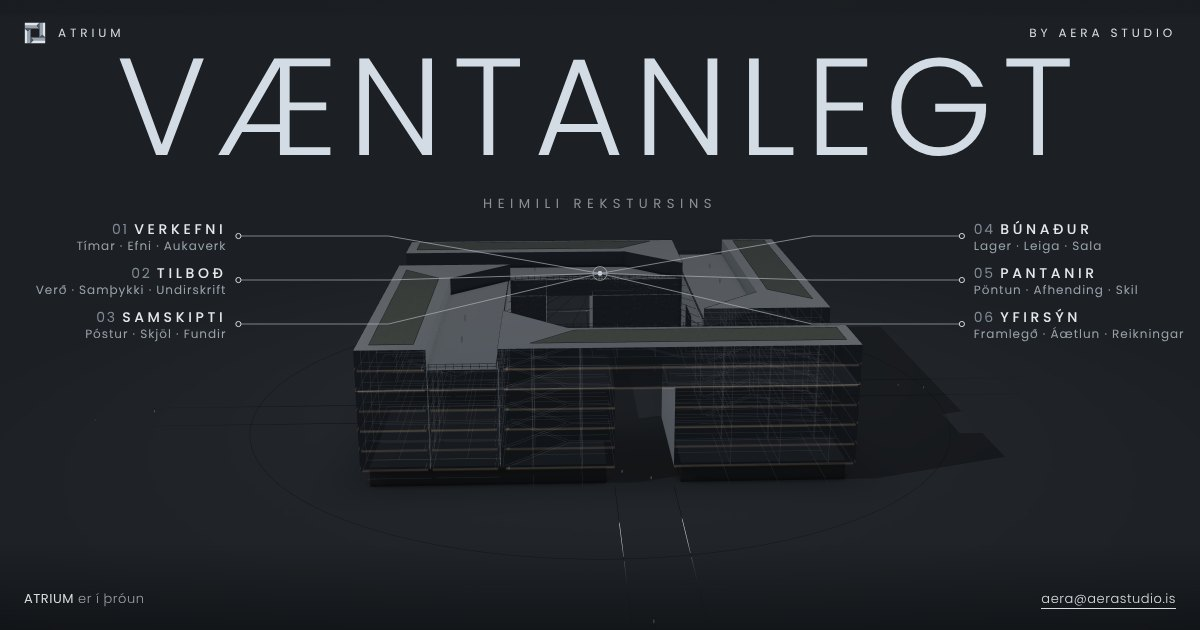
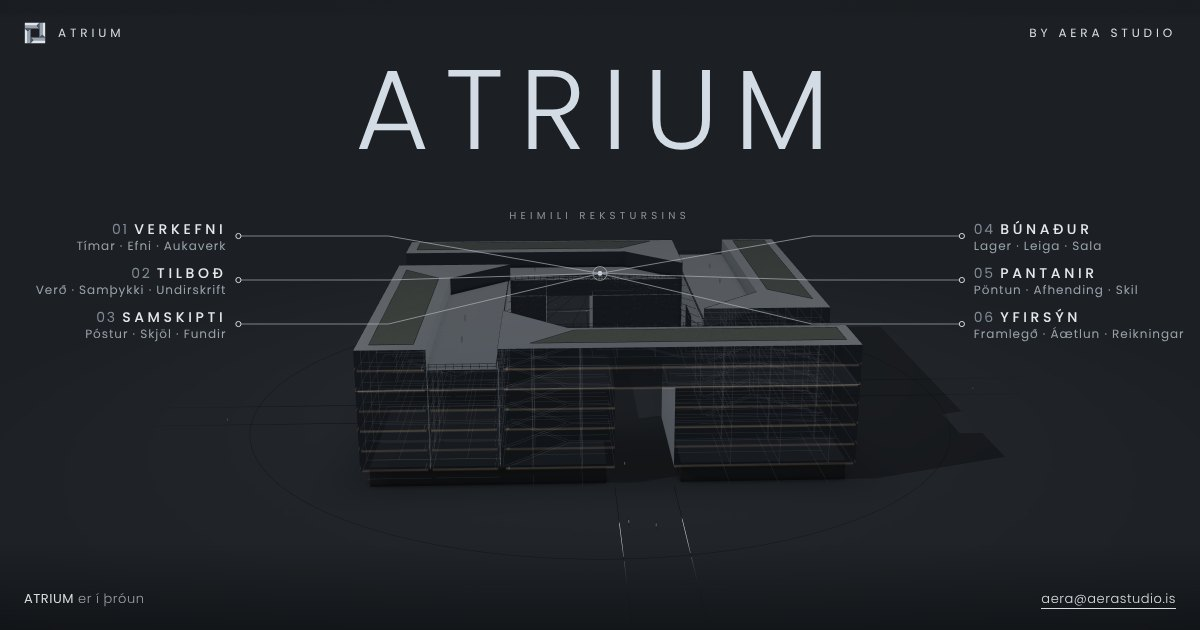
Væntanlegt: ATRIUM í stað VÆNTANLEGT; fyrirsögn og „Heimili rekstursins“ teiknast inn í línum samtímis merkinu og fyllast svo
Claude-Session: https://claude.ai/code/session_01NhUccGStRqMU7uEcn4Gtag

diff --git a/index.html b/index.html
@@ -6,7 +6,7 @@
 <script>/* App sem var sett upp áður en AERA flutti í aera/ (2.6.0) opnar rótina – senda það beint inn í AERA-appið */
 (function(){try{if((window.matchMedia&&(matchMedia("(display-mode: standalone)").matches||matchMedia("(display-mode: window-controls-overlay)").matches||matchMedia("(display-mode: minimal-ui)").matches))||navigator.standalone===true)location.replace("aera/"+location.search+location.hash);}catch(e){}})();
 if (/[?&]demo\b/.test(location.search)) location.replace("demo/" + location.search + location.hash);</script>
-<title>Atrium væntanlegt</title>
+<title>Atrium</title>
 <meta name="viewport" content="width=device-width,initial-scale=1,viewport-fit=cover">
 <meta name="description" content="Atrium by AERA Studio er í byggingu. Verkefni, tilboð, pantanir og tímar á einum stað – heimili rekstursins.">
 <meta property="og:type" content="website"><meta property="og:title" content="Atrium – væntanlegt"><meta property="og:description" content="Heimili rekstursins. Verkefni, tilboð, pantanir og tímar á einum stað.">
@@ -27,9 +27,18 @@ canvas{position:fixed;inset:0;width:100%;height:100%;display:block}
 html.nogl .fallback,html:not(.js) .fallback{display:block}html.nogl body,html:not(.js) body{background:#1C2227}
 
 .word{position:fixed;left:0;right:0;top:20%;transform:translateY(-50%);text-align:center;z-index:5;padding-inline:max(16px,env(safe-area-inset-left,0px)) max(16px,env(safe-area-inset-right,0px));pointer-events:none}
-.word h1{margin:0;color:var(--ink);font-weight:200;font-size:clamp(44px,11.5vw,190px);letter-spacing:.07em;line-height:1;text-transform:uppercase;animation:emerge 4s cubic-bezier(.2,.7,.2,1) .2s both}
+.word h1{margin:0;color:var(--ink);font-weight:200;font-size:clamp(52px,13.5vw,210px);letter-spacing:0;line-height:1;text-transform:uppercase;animation:emerge 4s cubic-bezier(.2,.7,.2,1) .2s both}
 .word p{margin:18px 0 0;color:var(--sub);font-size:clamp(12px,1.1vw,14px);letter-spacing:.42em;text-transform:uppercase;font-weight:400;animation:emerge 4s cubic-bezier(.2,.7,.2,1) 1.4s both}
 @keyframes emerge{from{letter-spacing:.16em;filter:blur(8px);opacity:0}to{filter:blur(0);opacity:1}}
+/* Fyrirsögnin teiknast inn í línum samtímis merkinu og fyllist svo */
+.word h1,.word p{animation:none}
+.word svg.draw{display:block;margin:0 auto;overflow:visible;height:1em;width:auto}
+.word svg.draw text{font-family:var(--f);text-transform:uppercase;fill:currentColor;fill-opacity:0;stroke:currentColor;stroke-linejoin:round;stroke-dasharray:720;stroke-dashoffset:720}   /* hver stafur teiknast samtímis frá 0 */
+.word svg.ttl text{font-size:100px;font-weight:200;letter-spacing:14px;stroke-width:.9;animation:drawIn 2.2s cubic-bezier(.45,.05,.3,1) .3s forwards,fillIn 1.1s ease 2.1s forwards}
+.word svg.sub{height:1.15em}.word svg.sub text{font-size:100px;font-weight:400;letter-spacing:42px;stroke-width:2.2;animation:drawIn 2s cubic-bezier(.45,.05,.3,1) .9s forwards,fillIn 1s ease 2.6s forwards}
+@keyframes drawIn{to{stroke-dashoffset:0}}
+@keyframes fillIn{to{fill-opacity:1;stroke-opacity:0}}
+@media (prefers-reduced-motion:reduce){.word svg.draw text{animation:none;stroke-dashoffset:0;fill-opacity:1;stroke-opacity:0}}
 .top{position:fixed;top:0;left:0;right:0;display:flex;justify-content:space-between;align-items:center;padding:calc(22px + env(safe-area-inset-top,0px)) max(24px,env(safe-area-inset-right,0px)) 0 max(24px,env(safe-area-inset-left,0px));z-index:6;color:var(--ink);font-size:12px;letter-spacing:.32em;text-transform:uppercase;font-weight:400}
 .top .wm{display:flex;align-items:center;gap:12px}.top svg{width:22px;height:22px}.top polygon:nth-child(3n+1){fill:var(--m1)}.top polygon:nth-child(3n+2){fill:var(--m2)}.top polygon:nth-child(3n){fill:var(--m3)}
 .bot{position:fixed;left:0;right:0;bottom:0;z-index:6;display:flex;flex-wrap:wrap;justify-content:space-between;align-items:center;gap:10px 24px;padding:44px max(24px,env(safe-area-inset-right,0px)) calc(22px + env(safe-area-inset-bottom,0px)) max(24px,env(safe-area-inset-left,0px));font-size:13px;color:var(--pale2);letter-spacing:.04em;background:linear-gradient(transparent,var(--fb,rgba(8,10,12,.5)))}
@@ -59,11 +68,17 @@ html.nogl .fallback,html:not(.js) .fallback{display:block}html.nogl body,html:no
 <img class="fallback" src="vefur/vaentanlegt-lok.jpg" alt="" aria-hidden="true"><canvas id="c" aria-hidden="true"></canvas>
 <div class="ui n">
 <header class="top"><span class="wm"><svg viewBox="-4 -4 108 108" aria-hidden="true"><polygon points="0.00,0.00 72.00,0.00 58.00,14.00 0.00,14.00"/><polygon points="0.00,14.00 58.00,14.00 72.00,28.00 0.00,28.00"/><polygon points="72.00,0.00 72.00,28.00 58.00,14.00"/><polygon points="100.00,0.00 100.00,72.00 86.00,58.00 86.00,0.00"/><polygon points="86.00,0.00 86.00,58.00 72.00,72.00 72.00,0.00"/><polygon points="100.00,72.00 72.00,72.00 86.00,58.00"/><polygon points="100.00,100.00 28.00,100.00 42.00,86.00 100.00,86.00"/><polygon points="100.00,86.00 42.00,86.00 28.00,72.00 100.00,72.00"/><polygon points="28.00,100.00 28.00,72.00 42.00,86.00"/><polygon points="0.00,100.00 0.00,28.00 14.00,42.00 14.00,100.00"/><polygon points="14.00,100.00 14.00,42.00 28.00,28.00 28.00,100.00"/><polygon points="0.00,28.00 28.00,28.00 14.00,42.00"/></svg>Atrium</span><span>by AERA Studio</span></header>
-<main class="word"><h1>Væntanlegt</h1><p>Heimili rekstursins</p></main>
+<main class="word"><h1 aria-label="Atrium"><svg class="draw ttl" aria-hidden="true"><text x="0" y="0">ATRIUM</text></svg></h1><p aria-label="Heimili rekstursins"><svg class="draw sub" aria-hidden="true"><text x="0" y="0">HEIMILI REKSTURSINS</text></svg></p></main>
 <footer class="bot"><span><b>ATRIUM</b> er í þróun</span><span><a href="mailto:aera@aerastudio.is">aera@aerastudio.is</a></span></footer>
 </div>
 
 <script type="importmap">{"imports":{"three":"https://cdn.jsdelivr.net/npm/three@0.172.0/build/three.module.js","three/addons/":"https://cdn.jsdelivr.net/npm/three@0.172.0/examples/jsm/"}}</script>
+<script>
+(() => { const fit = () => document.querySelectorAll(".word svg.draw").forEach(sv => { const tx = sv.querySelector("text"); try { const b = tx.getBBox(); if (!b.width) return;
+    sv.setAttribute("viewBox", `${b.x - 2} ${b.y - 2} ${b.width + 4} ${b.height + 4}`); sv.style.aspectRatio = (b.width + 4) / (b.height + 4);
+  } catch (e) {} });
+  fit(); (document.fonts ? document.fonts.ready : Promise.resolve()).then(fit); addEventListener("load", fit); })();
+</script>
 <script type="module">
 /* three.js r172 (ES-eining). Litastjórnun af svo litir og ljós haldist eins og áður (r128); eftirvinnsla: GTAO (mjúkir snertiskuggar) og bloom (ljós og púlsar glóa). */
 import * as THREE from "three";

diff --git a/vaentanlegt.html b/vaentanlegt.html
@@ -6,7 +6,7 @@
 <script>/* App sem var sett upp áður en AERA flutti í aera/ (2.6.0) opnar rótina – senda það beint inn í AERA-appið */
 (function(){try{if((window.matchMedia&&(matchMedia("(display-mode: standalone)").matches||matchMedia("(display-mode: window-controls-overlay)").matches||matchMedia("(display-mode: minimal-ui)").matches))||navigator.standalone===true)location.replace("aera/"+location.search+location.hash);}catch(e){}})();
 if (/[?&]demo\b/.test(location.search)) location.replace("demo/" + location.search + location.hash);</script>
-<title>Atrium væntanlegt</title>
+<title>Atrium</title>
 <meta name="viewport" content="width=device-width,initial-scale=1,viewport-fit=cover">
 <meta name="description" content="Atrium by AERA Studio er í byggingu. Verkefni, tilboð, pantanir og tímar á einum stað – heimili rekstursins.">
 <meta property="og:type" content="website"><meta property="og:title" content="Atrium – væntanlegt"><meta property="og:description" content="Heimili rekstursins. Verkefni, tilboð, pantanir og tímar á einum stað.">
@@ -27,9 +27,18 @@ canvas{position:fixed;inset:0;width:100%;height:100%;display:block}
 html.nogl .fallback,html:not(.js) .fallback{display:block}html.nogl body,html:not(.js) body{background:#1C2227}
 
 .word{position:fixed;left:0;right:0;top:20%;transform:translateY(-50%);text-align:center;z-index:5;padding-inline:max(16px,env(safe-area-inset-left,0px)) max(16px,env(safe-area-inset-right,0px));pointer-events:none}
-.word h1{margin:0;color:var(--ink);font-weight:200;font-size:clamp(44px,11.5vw,190px);letter-spacing:.07em;line-height:1;text-transform:uppercase;animation:emerge 4s cubic-bezier(.2,.7,.2,1) .2s both}
+.word h1{margin:0;color:var(--ink);font-weight:200;font-size:clamp(52px,13.5vw,210px);letter-spacing:0;line-height:1;text-transform:uppercase;animation:emerge 4s cubic-bezier(.2,.7,.2,1) .2s both}
 .word p{margin:18px 0 0;color:var(--sub);font-size:clamp(12px,1.1vw,14px);letter-spacing:.42em;text-transform:uppercase;font-weight:400;animation:emerge 4s cubic-bezier(.2,.7,.2,1) 1.4s both}
 @keyframes emerge{from{letter-spacing:.16em;filter:blur(8px);opacity:0}to{filter:blur(0);opacity:1}}
+/* Fyrirsögnin teiknast inn í línum samtímis merkinu og fyllist svo */
+.word h1,.word p{animation:none}
+.word svg.draw{display:block;margin:0 auto;overflow:visible;height:1em;width:auto}
+.word svg.draw text{font-family:var(--f);text-transform:uppercase;fill:currentColor;fill-opacity:0;stroke:currentColor;stroke-linejoin:round;stroke-dasharray:720;stroke-dashoffset:720}   /* hver stafur teiknast samtímis frá 0 */
+.word svg.ttl text{font-size:100px;font-weight:200;letter-spacing:14px;stroke-width:.9;animation:drawIn 2.2s cubic-bezier(.45,.05,.3,1) .3s forwards,fillIn 1.1s ease 2.1s forwards}
+.word svg.sub{height:1.15em}.word svg.sub text{font-size:100px;font-weight:400;letter-spacing:42px;stroke-width:2.2;animation:drawIn 2s cubic-bezier(.45,.05,.3,1) .9s forwards,fillIn 1s ease 2.6s forwards}
+@keyframes drawIn{to{stroke-dashoffset:0}}
+@keyframes fillIn{to{fill-opacity:1;stroke-opacity:0}}
+@media (prefers-reduced-motion:reduce){.word svg.draw text{animation:none;stroke-dashoffset:0;fill-opacity:1;stroke-opacity:0}}
 .top{position:fixed;top:0;left:0;right:0;display:flex;justify-content:space-between;align-items:center;padding:calc(22px + env(safe-area-inset-top,0px)) max(24px,env(safe-area-inset-right,0px)) 0 max(24px,env(safe-area-inset-left,0px));z-index:6;color:var(--ink);font-size:12px;letter-spacing:.32em;text-transform:uppercase;font-weight:400}
 .top .wm{display:flex;align-items:center;gap:12px}.top svg{width:22px;height:22px}.top polygon:nth-child(3n+1){fill:var(--m1)}.top polygon:nth-child(3n+2){fill:var(--m2)}.top polygon:nth-child(3n){fill:var(--m3)}
 .bot{position:fixed;left:0;right:0;bottom:0;z-index:6;display:flex;flex-wrap:wrap;justify-content:space-between;align-items:center;gap:10px 24px;padding:44px max(24px,env(safe-area-inset-right,0px)) calc(22px + env(safe-area-inset-bottom,0px)) max(24px,env(safe-area-inset-left,0px));font-size:13px;color:var(--pale2);letter-spacing:.04em;background:linear-gradient(transparent,var(--fb,rgba(8,10,12,.5)))}
@@ -59,11 +68,17 @@ html.nogl .fallback,html:not(.js) .fallback{display:block}html.nogl body,html:no
 <img class="fallback" src="vefur/vaentanlegt-lok.jpg" alt="" aria-hidden="true"><canvas id="c" aria-hidden="true"></canvas>
 <div class="ui n">
 <header class="top"><span class="wm"><svg viewBox="-4 -4 108 108" aria-hidden="true"><polygon points="0.00,0.00 72.00,0.00 58.00,14.00 0.00,14.00"/><polygon points="0.00,14.00 58.00,14.00 72.00,28.00 0.00,28.00"/><polygon points="72.00,0.00 72.00,28.00 58.00,14.00"/><polygon points="100.00,0.00 100.00,72.00 86.00,58.00 86.00,0.00"/><polygon points="86.00,0.00 86.00,58.00 72.00,72.00 72.00,0.00"/><polygon points="100.00,72.00 72.00,72.00 86.00,58.00"/><polygon points="100.00,100.00 28.00,100.00 42.00,86.00 100.00,86.00"/><polygon points="100.00,86.00 42.00,86.00 28.00,72.00 100.00,72.00"/><polygon points="28.00,100.00 28.00,72.00 42.00,86.00"/><polygon points="0.00,100.00 0.00,28.00 14.00,42.00 14.00,100.00"/><polygon points="14.00,100.00 14.00,42.00 28.00,28.00 28.00,100.00"/><polygon points="0.00,28.00 28.00,28.00 14.00,42.00"/></svg>Atrium</span><span>by AERA Studio</span></header>
-<main class="word"><h1>Væntanlegt</h1><p>Heimili rekstursins</p></main>
+<main class="word"><h1 aria-label="Atrium"><svg class="draw ttl" aria-hidden="true"><text x="0" y="0">ATRIUM</text></svg></h1><p aria-label="Heimili rekstursins"><svg class="draw sub" aria-hidden="true"><text x="0" y="0">HEIMILI REKSTURSINS</text></svg></p></main>
 <footer class="bot"><span><b>ATRIUM</b> er í þróun</span><span><a href="mailto:aera@aerastudio.is">aera@aerastudio.is</a></span></footer>
 </div>
 
 <script type="importmap">{"imports":{"three":"https://cdn.jsdelivr.net/npm/three@0.172.0/build/three.module.js","three/addons/":"https://cdn.jsdelivr.net/npm/three@0.172.0/examples/jsm/"}}</script>
+<script>
+(() => { const fit = () => document.querySelectorAll(".word svg.draw").forEach(sv => { const tx = sv.querySelector("text"); try { const b = tx.getBBox(); if (!b.width) return;
+    sv.setAttribute("viewBox", `${b.x - 2} ${b.y - 2} ${b.width + 4} ${b.height + 4}`); sv.style.aspectRatio = (b.width + 4) / (b.height + 4);
+  } catch (e) {} });
+  fit(); (document.fonts ? document.fonts.ready : Promise.resolve()).then(fit); addEventListener("load", fit); })();
+</script>
 <script type="module">
 /* three.js r172 (ES-eining). Litastjórnun af svo litir og ljós haldist eins og áður (r128); eftirvinnsla: GTAO (mjúkir snertiskuggar) og bloom (ljós og púlsar glóa). */
 import * as THREE from "three";
